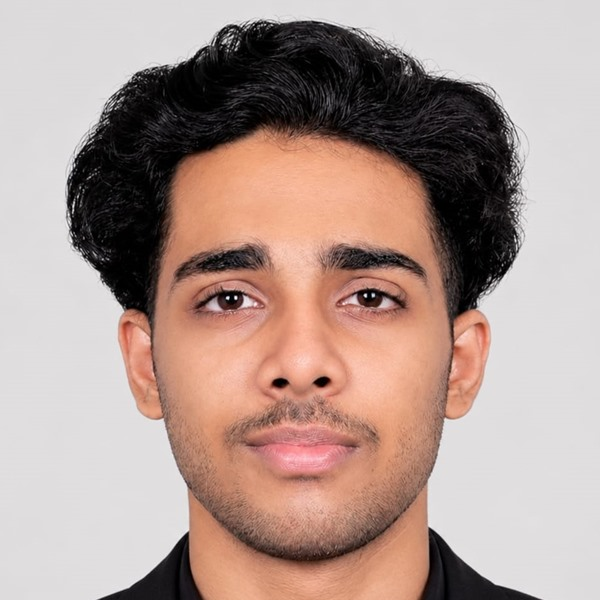
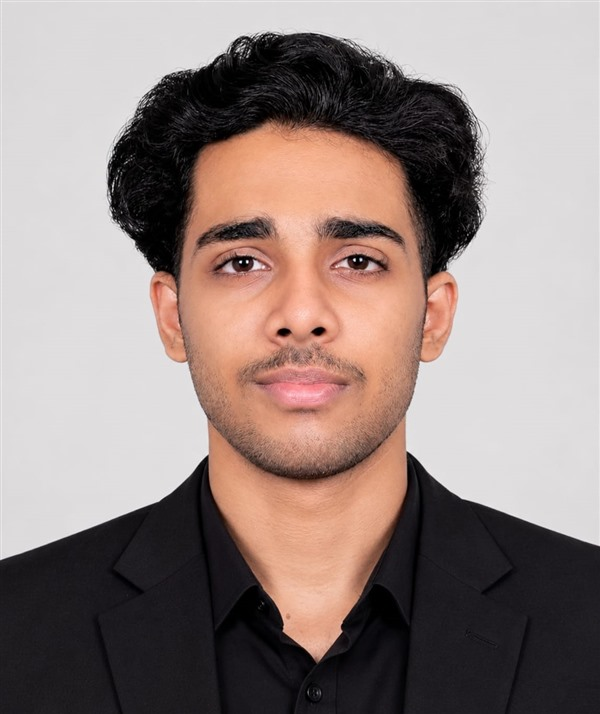
Show full profile photo in portrait frame

diff --git a/index.html b/index.html
@@ -91,13 +91,13 @@
 
   .avatar{
     position:relative;z-index:1;
-    width:154px;height:154px;margin:-66px auto 0;border-radius:50%;
-    padding:4px;background:conic-gradient(from 200deg,#f28a0f,#ffb347,#f28a0f,#7fbf26,#8fd12e,#7fbf26,#f28a0f);
-    box-shadow:0 20px 40px -16px rgba(40,25,5,.55);
+    width:186px;aspect-ratio:1149/1368;margin:-88px auto 0;border-radius:30px;
+    padding:4px;background:linear-gradient(160deg,#f28a0f,#ffb347 30%,#f28a0f 50%,#7fbf26 75%,#8fd12e);
+    box-shadow:0 24px 44px -18px rgba(40,25,5,.6);
   }
-  .avatar img{width:100%;height:100%;display:block;border-radius:50%;object-fit:cover;border:4px solid #fff}
+  .avatar img{width:100%;height:100%;display:block;border-radius:26px;object-fit:cover;border:4px solid #fff;background:#eceaea}
   .avatar .dot{
-    position:absolute;right:12px;bottom:12px;width:20px;height:20px;border-radius:50%;
+    position:absolute;right:-6px;bottom:-6px;width:22px;height:22px;border-radius:50%;
     background:#25D366;border:3px solid #fff;
   }
 
@@ -294,7 +294,7 @@
     </div>
 
     <div class="avatar">
-      <img src="avatar.jpg" alt="Sidharth S" width="146" height="146">
+      <img src="avatar.jpg" alt="Sidharth S" width="178" height="212">
       <span class="dot" aria-hidden="true"></span>
     </div>
 
